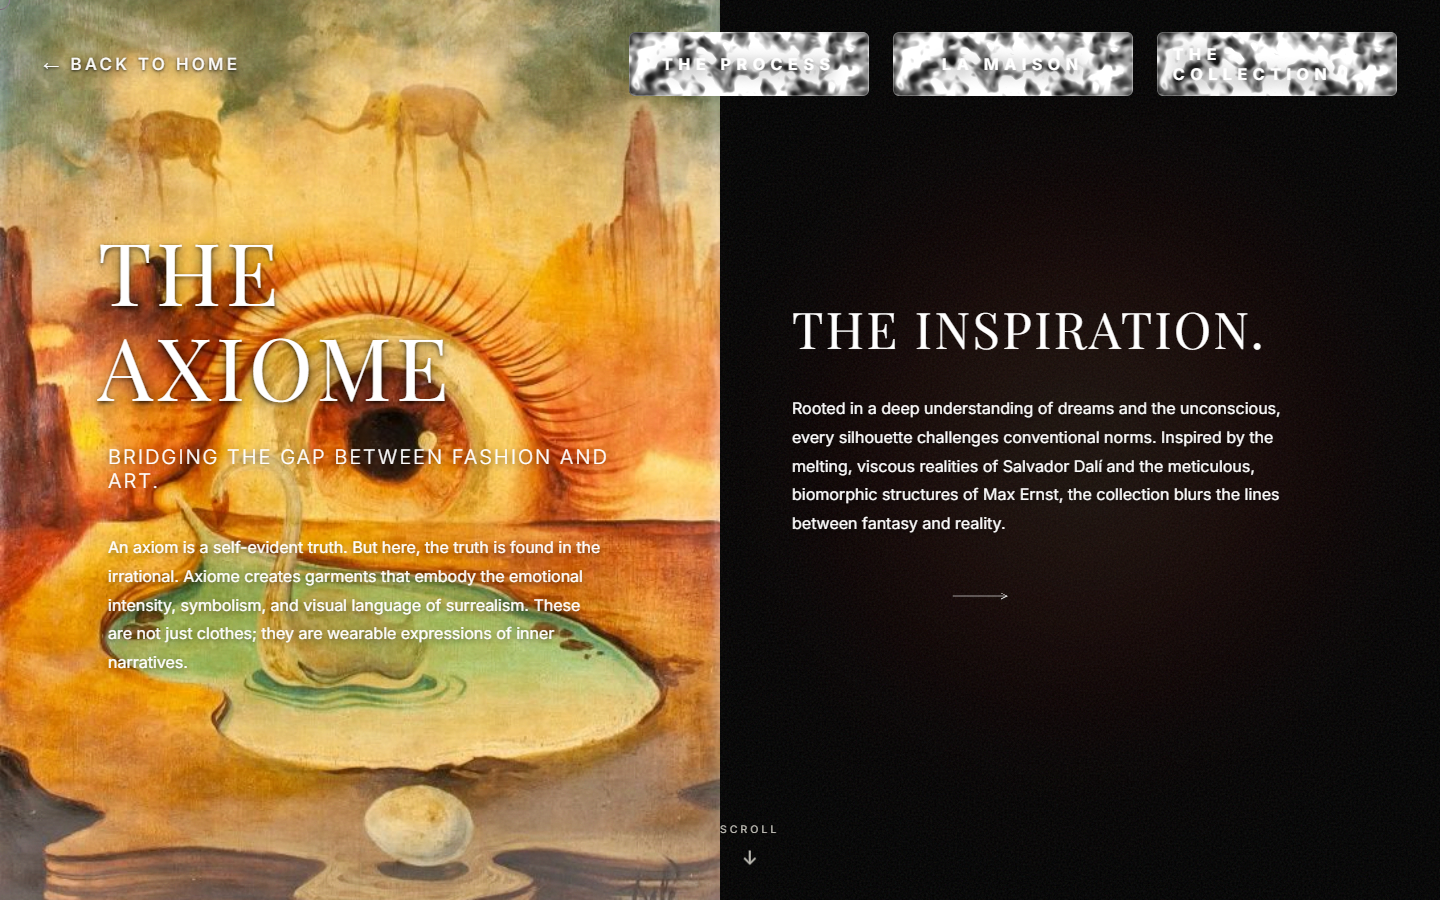
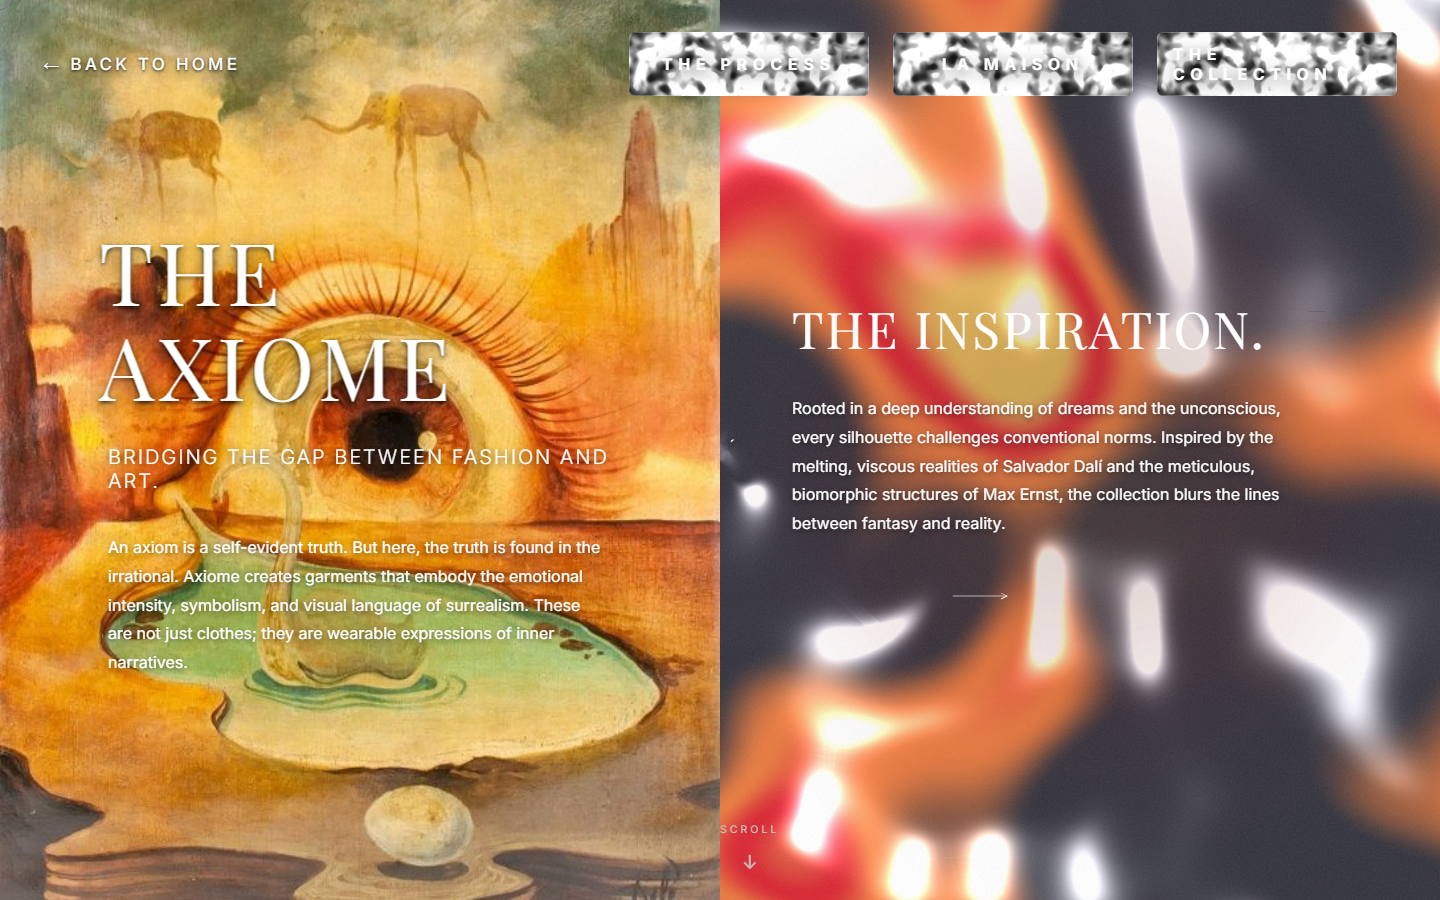
fix: move MoltenBackground outside perspective container to prevent CSS clipping - verified working with full 1440x900 canvas

diff --git a/src/App.tsx b/src/App.tsx
@@ -9,13 +9,20 @@ import InspirationRoute from './routes/InspirationRoute';
 import CustomCursor from './components/CustomCursor';
 import MotionPageFlip from './components/MotionPageFlip';
 import AxiomeGlobalNav from './components/AxiomeGlobalNav';
+import MoltenBackground from './components/MoltenBackground';
 
 function App() {
   const location = useLocation();
   const containerRef = useRef<HTMLDivElement>(null);
 
+  // Only show background on process page
+  const showMoltenBg = location.pathname === '/axiome/process';
+
   return (
     <div ref={containerRef} className="app-root-container" style={{ position: 'relative' }}>
+      {/* ── Molten Background: OUTSIDE perspective container so position:fixed works ── */}
+      {showMoltenBg && <MoltenBackground />}
+
       {/* 3D Global Perspective Container for Page Flips */}
       <div className="global-perspective-container">
         <AnimatePresence mode="wait">

diff --git a/src/routes/ProcessRoute.tsx b/src/routes/ProcessRoute.tsx
@@ -2,7 +2,6 @@ import { useState, useRef, useEffect } from 'react';
 import { Link } from 'react-router-dom';
 import ShatterImage from '../components/ShatterImage';
 import LiquidImage from '../components/LiquidImage';
-import MoltenBackground from '../components/MoltenBackground';
 
 // Ernst Images
 import img2 from '../assets/image (2).png';
@@ -86,8 +85,6 @@ export default function ProcessRoute() {
 
   return (
     <div className="process-container">
-      {/* ── Mirror-Finish Molten Metallic Interactive WebGL Layer ── */}
-      <MoltenBackground />
 
       {/* ── Section 1: Split Screen Manifesto ── */}
       <section className="process-section">

diff --git a/src/components/MoltenBackground.tsx b/src/components/MoltenBackground.tsx
@@ -63,12 +63,12 @@ function MoltenMesh() {
 export default function MoltenBackground() {
   return (
     <div className="molten-background-container" style={{ 
-      position: 'absolute', 
+      position: 'fixed', 
       top: 0, 
       left: 0, 
       width: '100vw', 
       height: '100vh', 
-      zIndex: 0,
+      zIndex: -1,
       pointerEvents: 'none',
       touchAction: 'none'
     }}>
